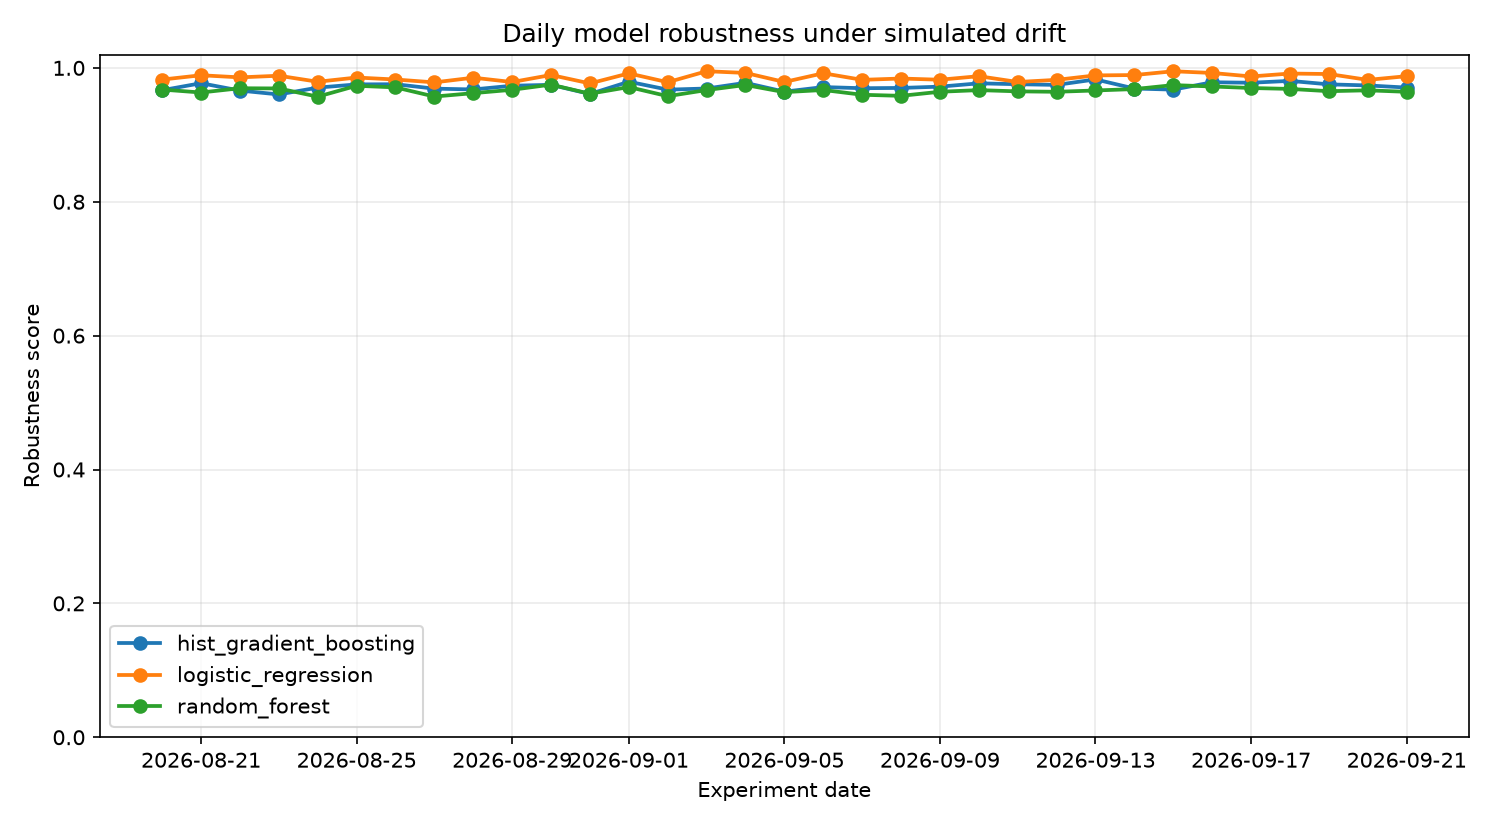
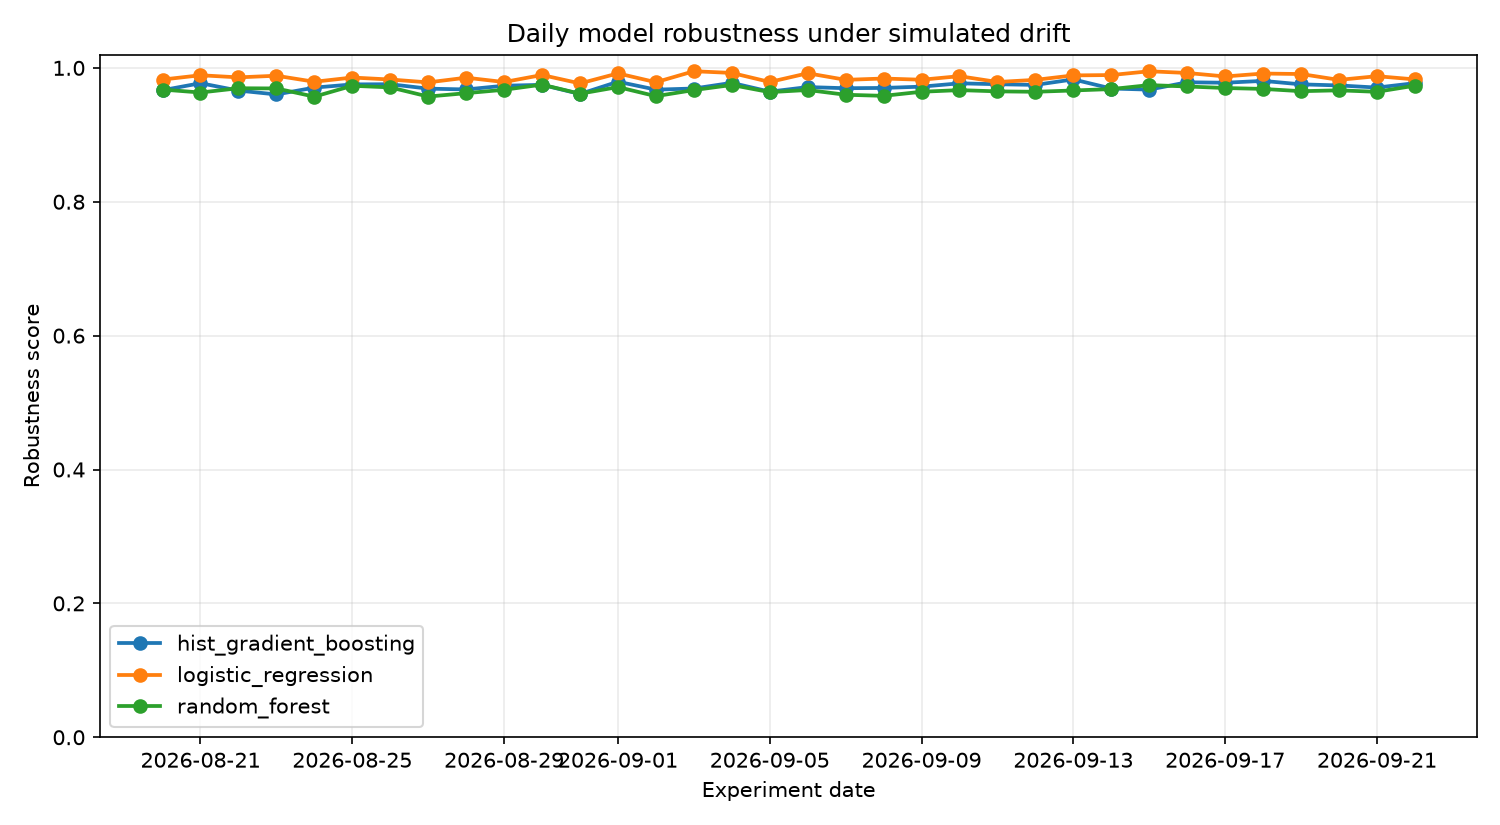
chore(observatory): daily drift benchmark 2026-09-22

Changed region(s): [[0.1533, 0.0303, 0.9507, 0.1212], [0.184, 0.9091, 0.9813, 0.9697], [0.092, 0.9091, 0.1533, 0.9394]]

diff --git a/reports/latest.md b/reports/latest.md
@@ -1,37 +1,37 @@
 # Latest DriftWatch Report
 
-**Experiment date:** 2026-09-21
+**Experiment date:** 2026-09-22
 
 ## Drift scenario
 
-- Drift strength: `0.503`
+- Drift strength: `0.498`
 - Scale factor: `0.950`
 - Noise ratio: `0.085`
-- Mask ratio: `0.023`
-- Affected features: mean perimeter, mean compactness, mean concave points, concavity error, concave points error, symmetry error, worst concavity, worst concave points
+- Mask ratio: `0.022`
+- Affected features: mean radius, mean fractal dimension, radius error, perimeter error, area error, symmetry error, worst perimeter
 
 ## Model ranking
 
 | Rank | Model | Robustness | ROC-AUC | F1 | Balanced Acc. | Log Loss | Brier |
 |---:|---|---:|---:|---:|---:|---:|---:|
-| 1 | `logistic_regression` | 0.9876 | 0.9968 | 0.9862 | 0.9766 | 0.0771 | 0.0228 |
-| 2 | `hist_gradient_boosting` | 0.9706 | 0.9924 | 0.9636 | 0.9406 | 0.1383 | 0.0358 |
-| 3 | `random_forest` | 0.9643 | 0.9901 | 0.9541 | 0.9313 | 0.1510 | 0.0426 |
+| 1 | `logistic_regression` | 0.9828 | 0.9972 | 0.9770 | 0.9641 | 0.0720 | 0.0200 |
+| 2 | `hist_gradient_boosting` | 0.9772 | 0.9947 | 0.9727 | 0.9531 | 0.1127 | 0.0315 |
+| 3 | `random_forest` | 0.9735 | 0.9927 | 0.9680 | 0.9485 | 0.1355 | 0.0373 |
 
 ## Highest feature drift (PSI)
 
 | Feature | PSI |
 |---|---:|
-| mean concave points | 0.4574 |
-| symmetry error | 0.4233 |
-| worst concave points | 0.3286 |
-| concavity error | 0.3233 |
-| worst concavity | 0.3090 |
-| texture error | 0.2041 |
-| mean compactness | 0.1989 |
-| mean perimeter | 0.1803 |
+| area error | 0.9168 |
+| radius error | 0.4812 |
+| symmetry error | 0.4273 |
+| perimeter error | 0.3797 |
+| worst perimeter | 0.3027 |
+| mean fractal dimension | 0.2256 |
+| mean radius | 0.2227 |
+| mean texture | 0.1815 |
 
-**Mean PSI:** `0.1373`  
-**Max PSI:** `0.4574`
+**Mean PSI:** `0.1705`  
+**Max PSI:** `0.9168`
 
 _Generated automatically by the DriftWatch daily observatory pipeline._
